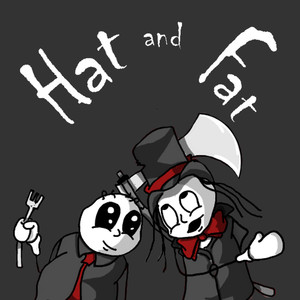
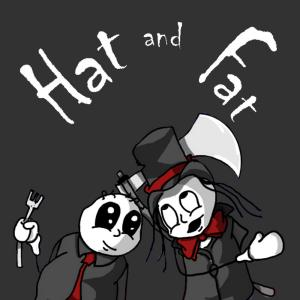
fix color of The Hat and Fat comic
was same as Cheer Up Emo Kid comic

diff --git a/src/Comics/TheHatAndFat.cpp b/src/Comics/TheHatAndFat.cpp
@@ -16,7 +16,7 @@ TheHatAndFat::TheHatAndFat(QObject *parent) :
 {
     m_info.id             = QString("thehatandfat");
     m_info.name           = QString("The Hat and Fat");
-    m_info.color          = QColor(51, 51, 51);
+    m_info.color          = QColor(50, 50, 50);
     m_info.authors        = QStringList() << "Eric Crowe" << "Dusty Perdue";
     m_info.homepage       = QUrl("https://thehatandfat.wordpress.com/");
     m_info.country        = QLocale::UnitedStates;
